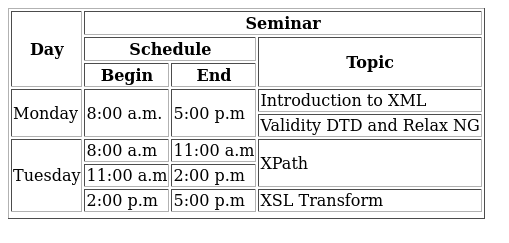
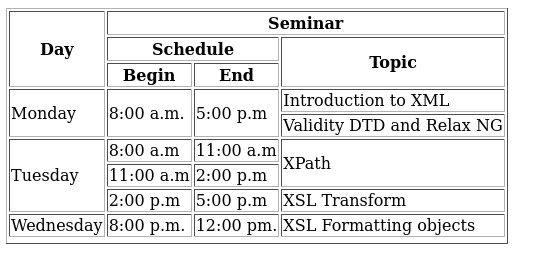
new row added

Changed region(s): [[0.0, 0.0288, 0.9725, 0.9794], [0.6778, 0.2016, 0.7662, 0.2881]]

diff --git a/index.html b/index.html
@@ -49,6 +49,12 @@
             <td>5:00 p.m</td>
             <td>XSL Transform</td>
           </tr>
+          <tr>
+            <td>Wednesday</td>
+            <td>8:00 p.m.</td>
+            <td>12:00 pm.</td>
+            <td>XSL Formatting objects</td>
+          </tr>
           <tr></tr>
           <tr></tr>
         </tbody>
